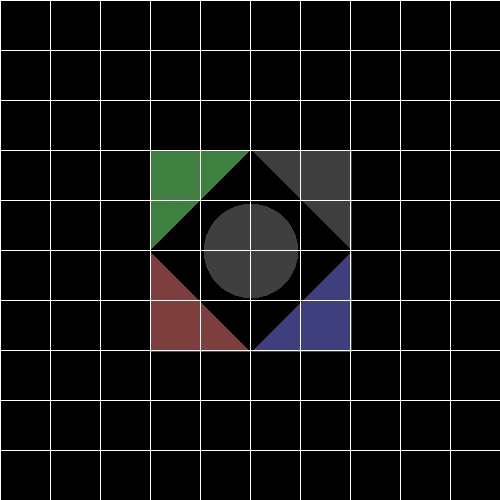
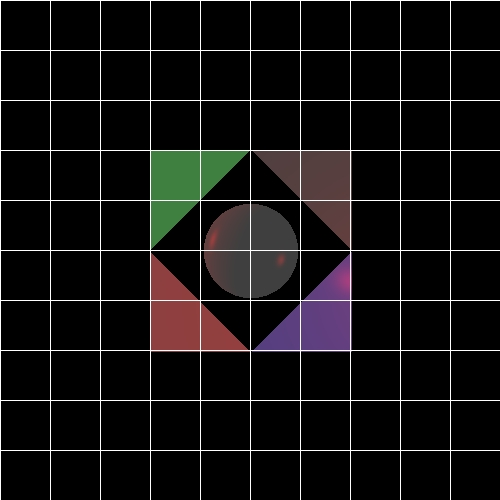
Fixed a bug where light would bounce off the inside of a geometry and back out into the camera

Changed region(s): [[0.54, 0.36, 0.72, 0.72], [0.39, 0.42, 0.45, 0.54], [0.54, 0.51, 0.57, 0.54]]

diff --git a/src/renderer/Render.java b/src/renderer/Render.java
@@ -147,6 +147,7 @@ public class Render {
 		//Grabs the light coming out of the geometry itself
 		Color emissionLight = geometry.getEmission();
 		if(numberOfLights != 0) {
+			
 			//Values to hold the light that's been diffused
 			int diffusedLightRed = 0;
 			int diffusedLightBlue = 0;
@@ -164,19 +165,22 @@ public class Render {
 			while(lights.hasNext()) {
 				LightSource light = lights.next();
 
-				//Calculates the diffused light generated by this light source
-				Color calculatedDiffusedLight = calcDiffuseComp(geometry.getMaterial().getKd(), geometry.getNormal(point).normalize(), light.getL(point).normalize(), light.getIntensity(point));
-				//Adds the new diffused light to the Color holding all the light so far, but scales it down so as not to go past the bounds of color values
-				diffusedLightRed += calculatedDiffusedLight.getRed();
-				diffusedLightBlue += calculatedDiffusedLight.getBlue();
-				diffusedLightGreen += calculatedDiffusedLight.getGreen();
+				//Check to make sure the reflected light would actually make it to the camera (It's not on the other side of the Geometry)
+				if(Math.signum(light.getL(point).dotProduct(geometry.getNormal(point))) == Math.signum(new Vector(_scene.getCamera().getP0().subtract(point)).dotProduct(geometry.getNormal(point)))) {
+					//Calculates the diffused light generated by this light source
+					Color calculatedDiffusedLight = calcDiffuseComp(geometry.getMaterial().getKd(), geometry.getNormal(point).normalize(), light.getL(point).normalize(), light.getIntensity(point));
+					//Adds the new diffused light to the Color holding all the light so far, but scales it down so as not to go past the bounds of color values
+					diffusedLightRed += calculatedDiffusedLight.getRed();
+					diffusedLightBlue += calculatedDiffusedLight.getBlue();
+					diffusedLightGreen += calculatedDiffusedLight.getGreen();
 
-				//Calculates the diffused light generated by this light source
-				Color calculatedSpecularLight = calcSpecularComp(geometry.getMaterial().getKs(), new Vector(_scene.getCamera().getP0().subtract(point)).normalize(), geometry.getNormal(point).normalize(), light.getL(point).normalize(), geometry.getMaterial().getShininess(), light.getIntensity(point));
-				//Adds the new diffused light to the Color holding all the light so far, but scales it down so as not to go past the bounds of color values
-				specularLightRed += calculatedSpecularLight.getRed();
-				specularLightBlue += calculatedSpecularLight.getBlue();
-				specularLightGreen += calculatedSpecularLight.getGreen();
+					//Calculates the diffused light generated by this light source
+					Color calculatedSpecularLight = calcSpecularComp(geometry.getMaterial().getKs(), new Vector(_scene.getCamera().getP0().subtract(point)).normalize(), geometry.getNormal(point).normalize(), light.getL(point).normalize(), geometry.getMaterial().getShininess(), light.getIntensity(point));
+					//Adds the new diffused light to the Color holding all the light so far, but scales it down so as not to go past the bounds of color values
+					specularLightRed += calculatedSpecularLight.getRed();
+					specularLightBlue += calculatedSpecularLight.getBlue();
+					specularLightGreen += calculatedSpecularLight.getGreen();
+				}
 
 			}
 

diff --git a/src/unitTests/RenderTests.java b/src/unitTests/RenderTests.java
@@ -27,7 +27,7 @@ public class RenderTests {
 		//Sets up an empty list of lights
 		List<LightSource> lights = new ArrayList<LightSource>();
 		//Creates a spotlight to ass to our scene
-		SpotLight spotLight = new SpotLight(new Point3D(10, 0, -5), new Vector(-1, 0, -1), new Color(255, 0, 0));
+		SpotLight spotLight = new SpotLight(new Point3D(10, -3, -5), new Vector(-1, 0, -1), new Color(255, 0, 0));
 		lights.add(spotLight);
 		//Creates a sphere and some triangles around it 
 		Material material = new Material();
@@ -60,7 +60,7 @@ public class RenderTests {
 		//Creates a scene to hold our universe
 		Scene scene = new Scene("TestScene", new Color(0, 0, 0), ambientLight, lights, list, camera, 30.0);
 		//Creates an ImageWriter instance to help write down what our camera sees
-		ImageWriter imageWriter = new ImageWriter("RenderTestWithEmissionAndSpotlight2", 500, 500, 100, 100);
+		ImageWriter imageWriter = new ImageWriter("RenderTestWithEmissionAndSpotlightBugFix", 500, 500, 100, 100);
 		//Creates a Render instance to pull it all together
 		Render render = new Render(scene, imageWriter);
 		
@@ -71,5 +71,6 @@ public class RenderTests {
 		render.printGrid(50);
 		//Prints it all to a file
 		imageWriter.writeToImage();
+		
 	}
 }
